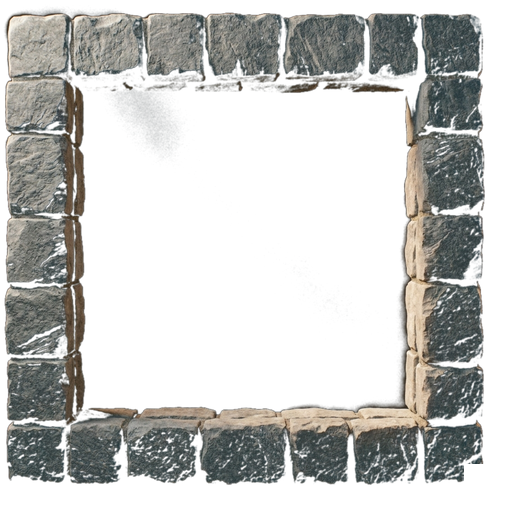
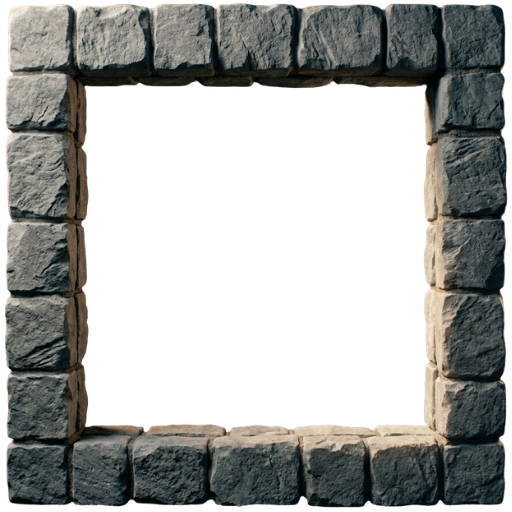
feat: custom frame PNGs with baked-in backing, simplify ProfileFrame (v0.11.10)
- Replace all 9 frame PNGs with custom versions that have charcoal baked in
- Remove backing PNGs (no longer needed)
- Simplify ProfileFrame to two layers: avatar + frame overlay; remove all
  backing spans, clip-paths, masks, z-indexes

diff --git a/src/components/ui/ProfileFrame.jsx b/src/components/ui/ProfileFrame.jsx
@@ -56,71 +56,31 @@ export default function ProfileFrame({
       style={{ width: px, height: px, display: 'inline-block', position: 'relative', flexShrink: 0 }}
       aria-label={ariaLabel}
     >
-      {slug && (
-        /* Layer 1: Charcoal square behind avatar — 5% bigger than avatar,
-           centered. Fills rounded-corner gaps between photo and frame inner edge. */
-        <span
-          aria-hidden="true"
-          style={{
-            position: 'absolute',
-            top: -Math.round(px * 0.025),
-            left: -Math.round(px * 0.025),
-            width: Math.round(px * 1.05),
-            height: Math.round(px * 1.05),
-            background: '#2a2a2a',
-            pointerEvents: 'none',
-            zIndex: 0,
-          }}
-        />
-      )}
-
-      {/* Layer 2: Avatar — above the behind-avatar backer */}
+      {/* Avatar layer fills the container */}
       <span
         className="profile-frame-avatar"
-        style={{ display: 'block', width: '100%', height: '100%', position: 'relative', zIndex: 1 }}
+        style={{ display: 'block', width: '100%', height: '100%' }}
       >
         {children}
       </span>
 
+      {/* Frame overlay — PNGs have charcoal baked in with transparent center */}
       {slug && (
-        <>
-          {/* Layer 3: Backing PNG — frame-shaped charcoal silhouette.
-              Clip-path cuts out the avatar area so photo shows through. */}
-          <img
-            src={`/frames/frame-${slug}-backing.png`}
-            alt=""
-            aria-hidden="true"
-            style={{
-              position: 'absolute',
-              top: overlayOffset,
-              left: overlayOffset,
-              width: overlaySize,
-              height: overlaySize,
-              maxWidth: 'none',
-              clipPath: 'polygon(evenodd, 0% 0%, 100% 0%, 100% 100%, 0% 100%, 0% 0%, 16.67% 16.67%, 83.33% 16.67%, 83.33% 83.33%, 16.67% 83.33%, 16.67% 16.67%)',
-              pointerEvents: 'none',
-              zIndex: 2,
-            }}
-          />
-
-          {/* Layer 4: Frame PNG — decorative artwork on top */}
-          <img
-            src={`/frames/frame-${slug}.png`}
-            alt=""
-            aria-hidden="true"
-            className="frame-overlay"
-            style={{
-              position: 'absolute',
-              top: overlayOffset,
-              left: overlayOffset,
-              width: overlaySize,
-              height: overlaySize,
-              maxWidth: 'none',
-              pointerEvents: 'none',
-              zIndex: 3,
-            }}
-          />
-        </>
+        <img
+          src={`/frames/frame-${slug}.png`}
+          alt=""
+          aria-hidden="true"
+          className="frame-overlay"
+          style={{
+            position: 'absolute',
+            top: overlayOffset,
+            left: overlayOffset,
+            width: overlaySize,
+            height: overlaySize,
+            maxWidth: 'none',
+            pointerEvents: 'none',
+          }}
+        />
       )}
     </span>
   );
